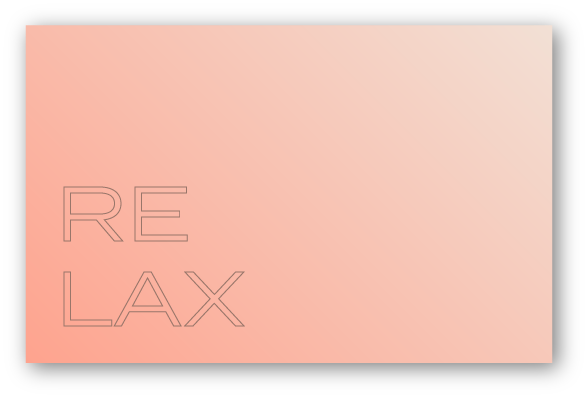
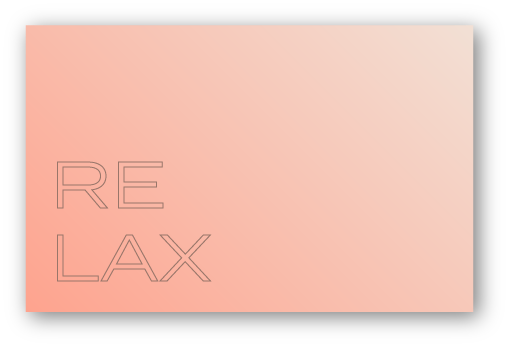
carousel sized correctly

Changed region(s): [[0.0295, 0.0576, 0.9725, 0.9222], [0.0884, 0.6628, 0.4126, 0.8357], [0.0884, 0.4611, 0.3242, 0.6052]]

diff --git a/src/assets/home.jsx b/src/assets/home.jsx
@@ -99,25 +99,27 @@ export default function Home() {
                     </ul>
                 </div>
             </div>
-        
-            <Carousel slide={false}>
-                {boxes.map((box) => <Carousel_content 
-                                        key={box.id}
-                                        id={box.id}
-                                        name={box.name}
-                                        price={box.price}
-                                        price_3={box.price_3}
-                                        price_6={box.price_6}
-                                        price_12={box.price_12}
-                                        callout={box.callout}
-                                        button_color={box.button_color}
-                                        text_color={box.text_color}
-                                        background={box.background}
-                                        box_out={box.box_out}
-                                        quantity={box.quantity}
-                                        />)}
-                
-            </Carousel>
+            <div className="h-[585px]">
+                <Carousel slide={false}>
+                    {boxes.map((box) => <Carousel_content 
+                                            key={box.id}
+                                            id={box.id}
+                                            name={box.name}
+                                            price={box.price}
+                                            price_3={box.price_3}
+                                            price_6={box.price_6}
+                                            price_12={box.price_12}
+                                            callout={box.callout}
+                                            button_color={box.button_color}
+                                            text_color={box.text_color}
+                                            background={box.background}
+                                            box_out={box.box_out}
+                                            quantity={box.quantity}
+                                            />)}
+                    
+                </Carousel>
+            </div>
+
 
         <div className="bg-black text-white p-4 opacity-70">
                 <p className="text-center text-sm md:text-xl lg:text-2xl">* Buy yourself a one-time experience, or treat yourself every month by taking a subscription. *</p>
